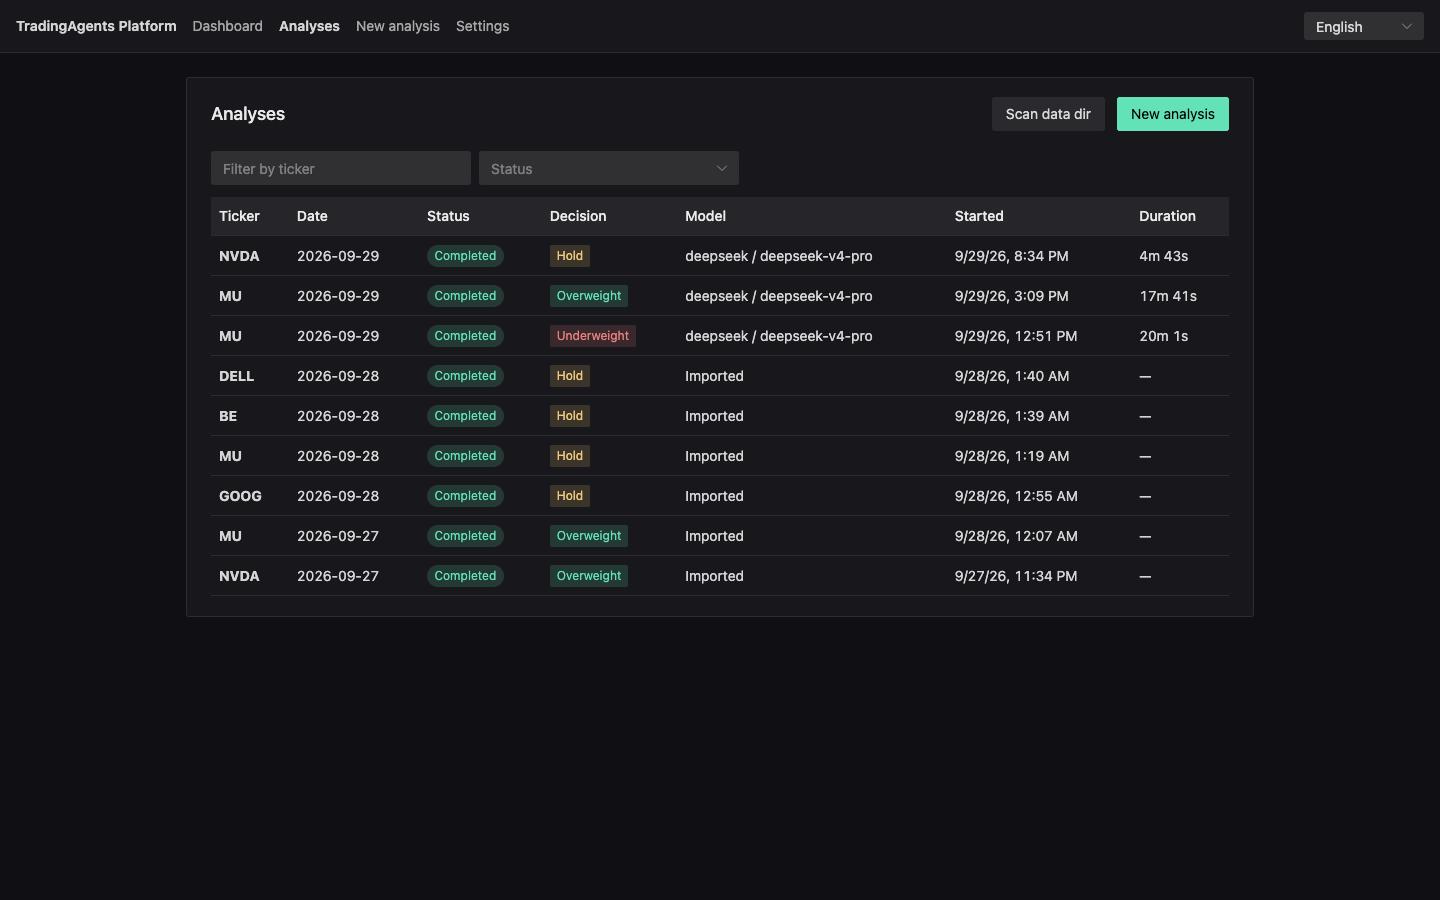
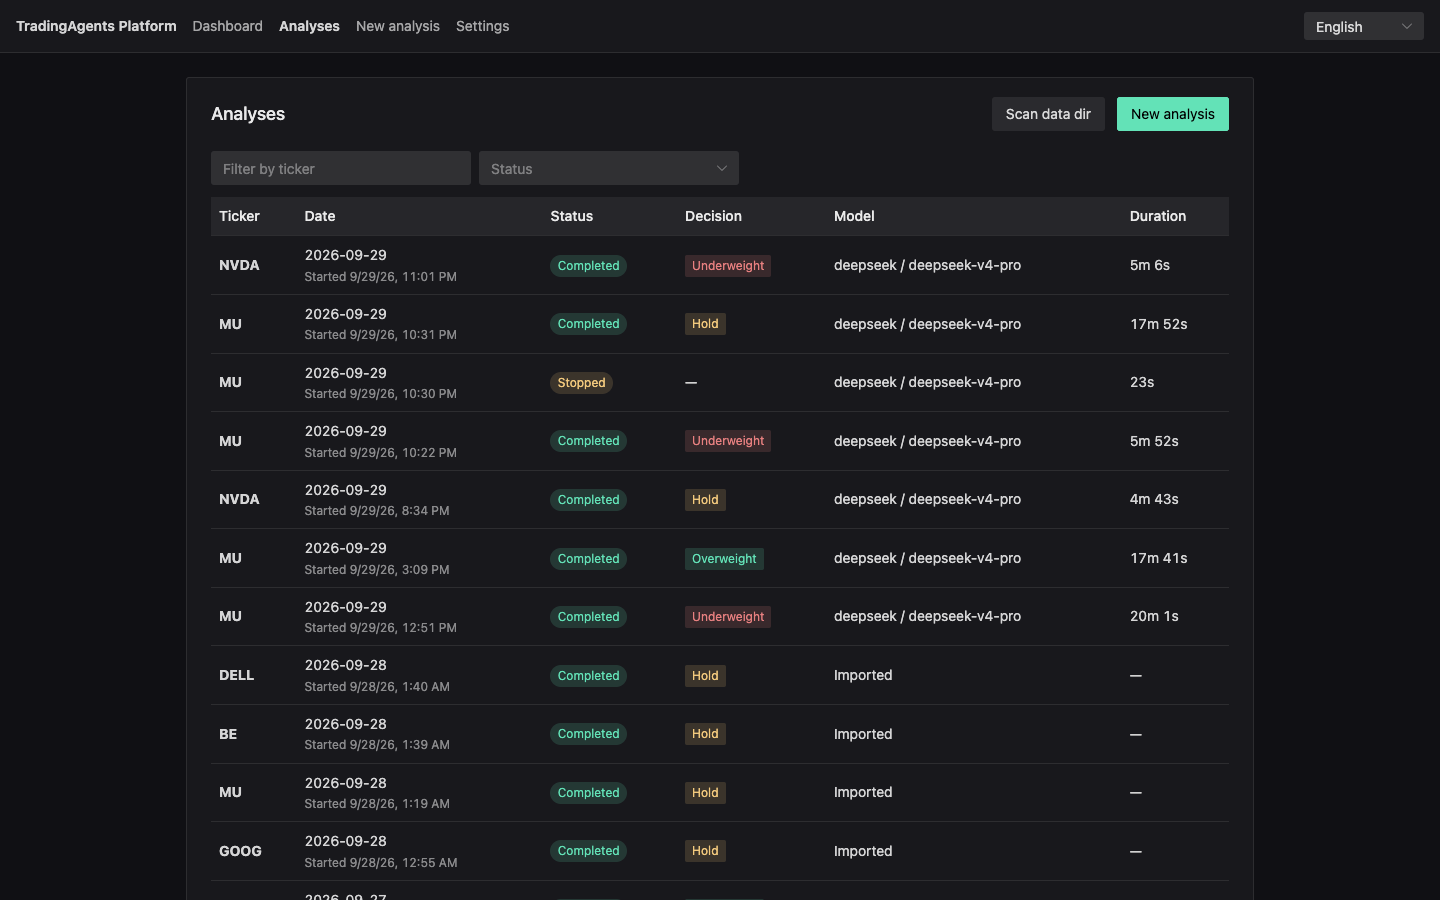
English UI by default; show each analysis's start time with its date
- The UI starts in English (Turkish stays in the language menu); English is
  listed first there and in the report-language options.
- The Dashboard, the Analyses list and the analysis page show when the run
  started under/next to the analysis date (startedAt, or createdAt while
  queued); the list's separate Started column is folded into it.
- README screenshots retaken with the English UI and English reports.

diff --git a/artifact/frontend/src/pages/RunDetailPage.vue b/artifact/frontend/src/pages/RunDetailPage.vue
@@ -37,7 +37,17 @@ const PriceChart = defineAsyncComponent(() => import('@/components/PriceChart.vu
 
 const route = useRoute()
 const router = useRouter()
-const { t, language, error: errorLabel, errorCode, dateTime, duration, integer, usd } = useLabels()
+const {
+  t,
+  language,
+  error: errorLabel,
+  errorCode,
+  dateTime,
+  startTime,
+  duration,
+  integer,
+  usd,
+} = useLabels()
 const { locale } = useI18n()
 
 const id = computed(() => String(route.params.id))
@@ -152,6 +162,9 @@ async function rerun() {
         <NSpace align="center" :wrap="true">
           <span class="title">{{ analysis.spec.ticker }}</span>
           <span class="subtitle">{{ analysis.spec.tradeDate }}</span>
+          <span class="subtitle subtitle--small">{{
+            t('runs.startedAt', { time: startTime(analysis) })
+          }}</span>
           <StatusTag :status="analysis.status" />
           <RatingTag :rating="rating" size="medium" />
           <NTooltip v-if="outputLanguage">
@@ -342,7 +355,7 @@ async function rerun() {
               language(outputLanguage ?? analysis.spec.outputLanguage)
             }}</NDescriptionsItem>
             <NDescriptionsItem :label="t('runs.created')">{{
-              dateTime(analysis.createdAt)
+              startTime(analysis)
             }}</NDescriptionsItem>
           </NDescriptions>
         </NTabPane>
@@ -359,6 +372,10 @@ async function rerun() {
 
 .subtitle {
   opacity: 0.7;
+}
+
+.subtitle--small {
+  font-size: 13px;
 }
 
 .feed {

diff --git a/artifact/frontend/src/components/AnalysisTable.vue b/artifact/frontend/src/components/AnalysisTable.vue
@@ -9,12 +9,20 @@ import RatingTag from './RatingTag.vue'
 
 const props = defineProps<{ analyses: Analysis[]; loading?: boolean; compact?: boolean }>()
 const router = useRouter()
-const { t, dateTime, duration } = useLabels()
+const { t, startTime, duration } = useLabels()
 
 const columns = computed<DataTableColumns<Analysis>>(() => {
   const all: DataTableColumns<Analysis> = [
     { title: t('runs.ticker'), key: 'ticker', render: (row) => h('strong', row.spec.ticker) },
-    { title: t('runs.tradeDate'), key: 'tradeDate', render: (row) => row.spec.tradeDate },
+    {
+      title: t('runs.tradeDate'),
+      key: 'tradeDate',
+      render: (row) =>
+        h('div', [
+          h('div', row.spec.tradeDate),
+          h('div', { class: 'started' }, t('runs.startedAt', { time: startTime(row) })),
+        ]),
+    },
     {
       title: t('runs.status'),
       key: 'status',
@@ -36,7 +44,6 @@ const columns = computed<DataTableColumns<Analysis>>(() => {
             ? t('runs.imported')
             : `${row.spec.llmProvider} / ${row.spec.deepThinkLlm}`,
       },
-      { title: t('runs.created'), key: 'created', render: (row) => dateTime(row.createdAt) },
       {
         title: t('runs.duration'),
         key: 'duration',
@@ -65,3 +72,11 @@ const rowProps = (row: Analysis) => ({
     :scroll-x="compact ? undefined : 760"
   />
 </template>
+
+<style scoped>
+:deep(.started) {
+  font-size: 12px;
+  opacity: 0.6;
+  white-space: nowrap;
+}
+</style>

diff --git a/artifact/frontend/src/composables/useLabels.ts b/artifact/frontend/src/composables/useLabels.ts
@@ -1,5 +1,5 @@
 import { useI18n } from 'vue-i18n'
-import { ApiError } from '@/api/client'
+import { ApiError, type Analysis } from '@/api/client'
 
 /** Upstream agent name ("Market Analyst") -> message key ("market_analyst"). */
 export const agentKey = (agent: string): string => agent.toLowerCase().replace(/ /g, '_')
@@ -30,6 +30,10 @@ export function useLabels() {
       ? new Date(iso).toLocaleString(locale.value, { dateStyle: 'short', timeStyle: 'short' })
       : '—'
 
+  /** When the run started; queued runs have not yet, so their creation time stands in. */
+  const startTime = (analysis: Analysis): string =>
+    dateTime(analysis.startedAt ?? analysis.createdAt)
+
   const duration = (ms: number | null): string => {
     if (ms === null || ms <= 0) return '—'
     const seconds = Math.round(ms / 1000)
@@ -51,5 +55,5 @@ export function useLabels() {
           maximumFractionDigits: 4,
         }).format(value)
 
-  return { t, d, n, agent, language, error, errorCode, dateTime, duration, integer, usd }
+  return { t, d, n, agent, language, error, errorCode, dateTime, startTime, duration, integer, usd }
 }

diff --git a/artifact/frontend/src/i18n/index.ts b/artifact/frontend/src/i18n/index.ts
@@ -2,12 +2,12 @@ import { createI18n } from 'vue-i18n'
 import en from './locales/en.json'
 import tr from './locales/tr.json'
 
-export type MessageSchema = typeof tr
-export const SUPPORTED_LOCALES = ['tr', 'en'] as const
+export type MessageSchema = typeof en
+export const SUPPORTED_LOCALES = ['en', 'tr'] as const
 export type AppLocale = (typeof SUPPORTED_LOCALES)[number]
 
-// Turkish by default (PLAN.md D5); the viewer's choice is remembered per browser.
-export const DEFAULT_LOCALE: AppLocale = 'tr'
+// English by default (PLAN.md D5); the viewer's choice is remembered per browser.
+export const DEFAULT_LOCALE: AppLocale = 'en'
 const STORAGE_KEY = 'tap.locale'
 
 export function isAppLocale(value: unknown): value is AppLocale {
@@ -31,7 +31,7 @@ export function storeLocale(locale: AppLocale): void {
   }
 }
 
-export const messages: Record<AppLocale, MessageSchema> = { tr, en }
+export const messages: Record<AppLocale, MessageSchema> = { en, tr }
 
 export const i18n = createI18n<[MessageSchema], AppLocale, false>({
   legacy: false,

diff --git a/artifact/frontend/src/components/LocaleSwitcher.vue b/artifact/frontend/src/components/LocaleSwitcher.vue
@@ -2,17 +2,17 @@
 import { computed } from 'vue'
 import { useI18n } from 'vue-i18n'
 import { NSelect } from 'naive-ui'
-import { isAppLocale, setLocale, type AppLocale } from '@/i18n'
+import { DEFAULT_LOCALE, isAppLocale, setLocale, type AppLocale } from '@/i18n'
 
 const { t, locale } = useI18n()
 
 const options = [
-  { label: 'Türkçe', value: 'tr' },
   { label: 'English', value: 'en' },
+  { label: 'Türkçe', value: 'tr' },
 ]
 
 const selected = computed<AppLocale>({
-  get: () => (isAppLocale(locale.value) ? locale.value : 'tr'),
+  get: () => (isAppLocale(locale.value) ? locale.value : DEFAULT_LOCALE),
   set: setLocale,
 })
 </script>

diff --git a/artifact/frontend/src/i18n/index.spec.ts b/artifact/frontend/src/i18n/index.spec.ts
@@ -3,7 +3,7 @@ import { i18n, loadStoredLocale, outputLanguageFor, setLocale } from '.'
 
 describe('setLocale', () => {
   afterEach(() => {
-    setLocale('tr')
+    setLocale('en')
     vi.unstubAllGlobals()
   })
 
@@ -27,9 +27,9 @@ describe('setLocale', () => {
     expect(loadStoredLocale()).toBe('en')
   })
 
-  it('falls back to Turkish for an unknown stored value', () => {
+  it('falls back to English for an unknown stored value', () => {
     vi.stubGlobal('localStorage', { getItem: () => 'de', setItem: () => {} })
-    expect(loadStoredLocale()).toBe('tr')
+    expect(loadStoredLocale()).toBe('en')
   })
 })
 

diff --git a/artifact/frontend/src/pages/NewAnalysisPage.vue b/artifact/frontend/src/pages/NewAnalysisPage.vue
@@ -35,7 +35,7 @@ const { t, language, error: errorLabel } = useLabels()
 const catalogStore = useCatalogStore()
 
 const ANALYSTS: Analyst[] = ['MARKET', 'SOCIAL', 'NEWS', 'FUNDAMENTALS']
-const LANGUAGES = ['Turkish', 'English', 'German', 'French', 'Spanish', 'Chinese', 'Japanese']
+const LANGUAGES = ['English', 'Turkish', 'German', 'French', 'Spanish', 'Chinese', 'Japanese']
 
 /** The latest weekday up to today: upstream rejects future dates, markets are closed at weekends. */
 function lastWeekday(): number {

diff --git a/artifact/frontend/index.html b/artifact/frontend/index.html
@@ -1,5 +1,5 @@
 <!doctype html>
-<html lang="tr">
+<html lang="en">
   <head>
     <meta charset="UTF-8" />
     <link rel="icon" href="/favicon.svg" type="image/svg+xml" />

diff --git a/PLAN.md b/PLAN.md
@@ -9,7 +9,7 @@
 | D2 | Execution model | ✅ `RunnerPort` with two adapters: Phase 1 local process, Phase 2 Docker |
 | D3 | UI component library | ✅ Naive UI |
 | D4 | Upstream source | ✅ GitHub tag, pinned (`v0.5.1`; `v0.4.2` does not exist upstream, so Phase 0 pinned the latest release) |
-| D5 | UI language | ✅ Turkish + English (vue-i18n), **Turkish by default** |
+| D5 | UI language | ✅ English + Turkish (vue-i18n), **English by default** |
 | D6 | Number of users | ✅ Single user for now; data model designed so it can be extended to multiple users later |
 | D7 | Existing data | ✅ `~/.tradingagents` is imported into the platform (see §3.6) |
 | D8 | Docker model on the server | ✅ One container per analysis (Docker runner adapter, via the Docker socket) |
@@ -295,7 +295,7 @@ Rules:
 - **Triggering:** full scan on startup, then change watching (`java.nio.file.WatchService`) + a "Rescan" button in the UI.
 
 ### 3.7 Language policy (D5)
-- **UI strings:** `artifact/frontend/src/i18n/{tr,en}.json`, Turkish by default.
+- **UI strings:** `artifact/frontend/src/i18n/{en,tr}.json`, English by default.
 - **Analysis output language is a separate setting:** `output_language` (upstream config) in the New Analysis form defaults to the UI language (TR → `Turkish`) but can be changed per run. Upstream keeps internal debates in English; show this as a note in the UI.
 - **Fixed labels are translated:** agent names (Market Analyst → Piyasa Analisti), stages, ratings (Buy → Al, Overweight → Ağırlık Artır, Hold → Tut, Underweight → Ağırlık Azalt, Sell → Sat, REVIEW → İncele). Raw values stay in English in the DB; translation happens only at display time.
 - The backend returns an `error_code` + parameters; the frontend translates the text.

diff --git a/README.md b/README.md
@@ -93,7 +93,8 @@ and report tables that are series over periods (quarterly or yearly figures) get
 
 ### 6. Past analyses
 
-**Analyses** lists every run with its decision, model and duration, filterable by ticker and status.
+**Analyses** lists every run with its analysis date and start time, decision, model and duration,
+filterable by ticker and status.
 Runs made with the TradingAgents CLI are imported from `~/.tradingagents/logs` (read-only) —
 **Scan data dir** picks up new ones.
 
@@ -105,9 +106,8 @@ The **Dashboard** shows the running analyses and the latest decisions at a glanc
 
 ### Language
 
-The UI is Turkish by default; switch to English in the header (the choice is remembered per
-browser). Reports stay in the language the analysis was started with; the analysis page shows it
-as a "Report language" tag. The screenshots above are the English UI with an analysis run in English.
+The UI is in English. Reports are written in the language chosen in the New Analysis form's
+"Report language" field; the analysis page shows it as a tag.
 
 ## Where things live
 
